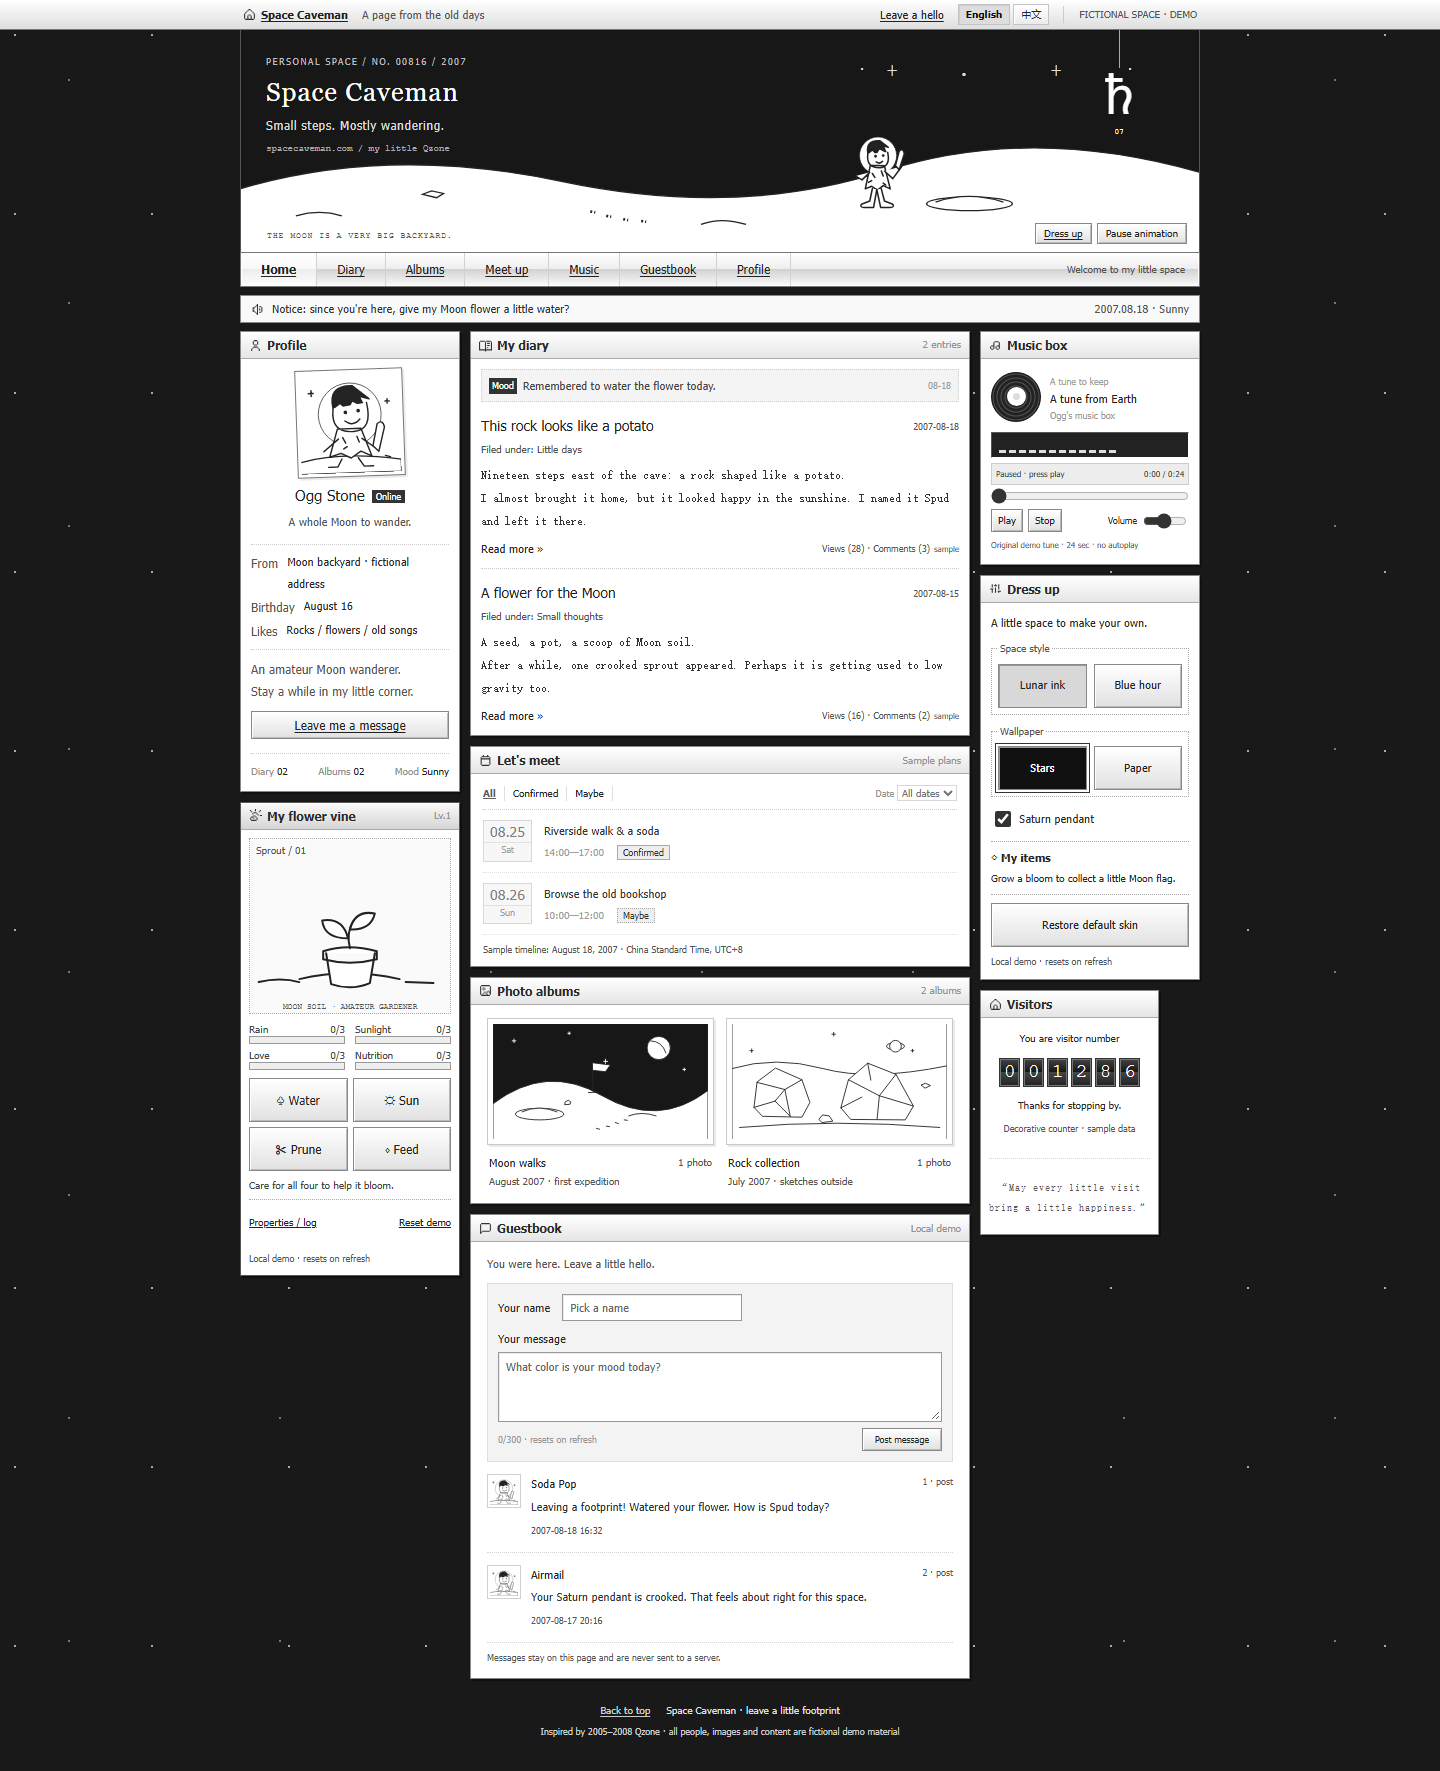
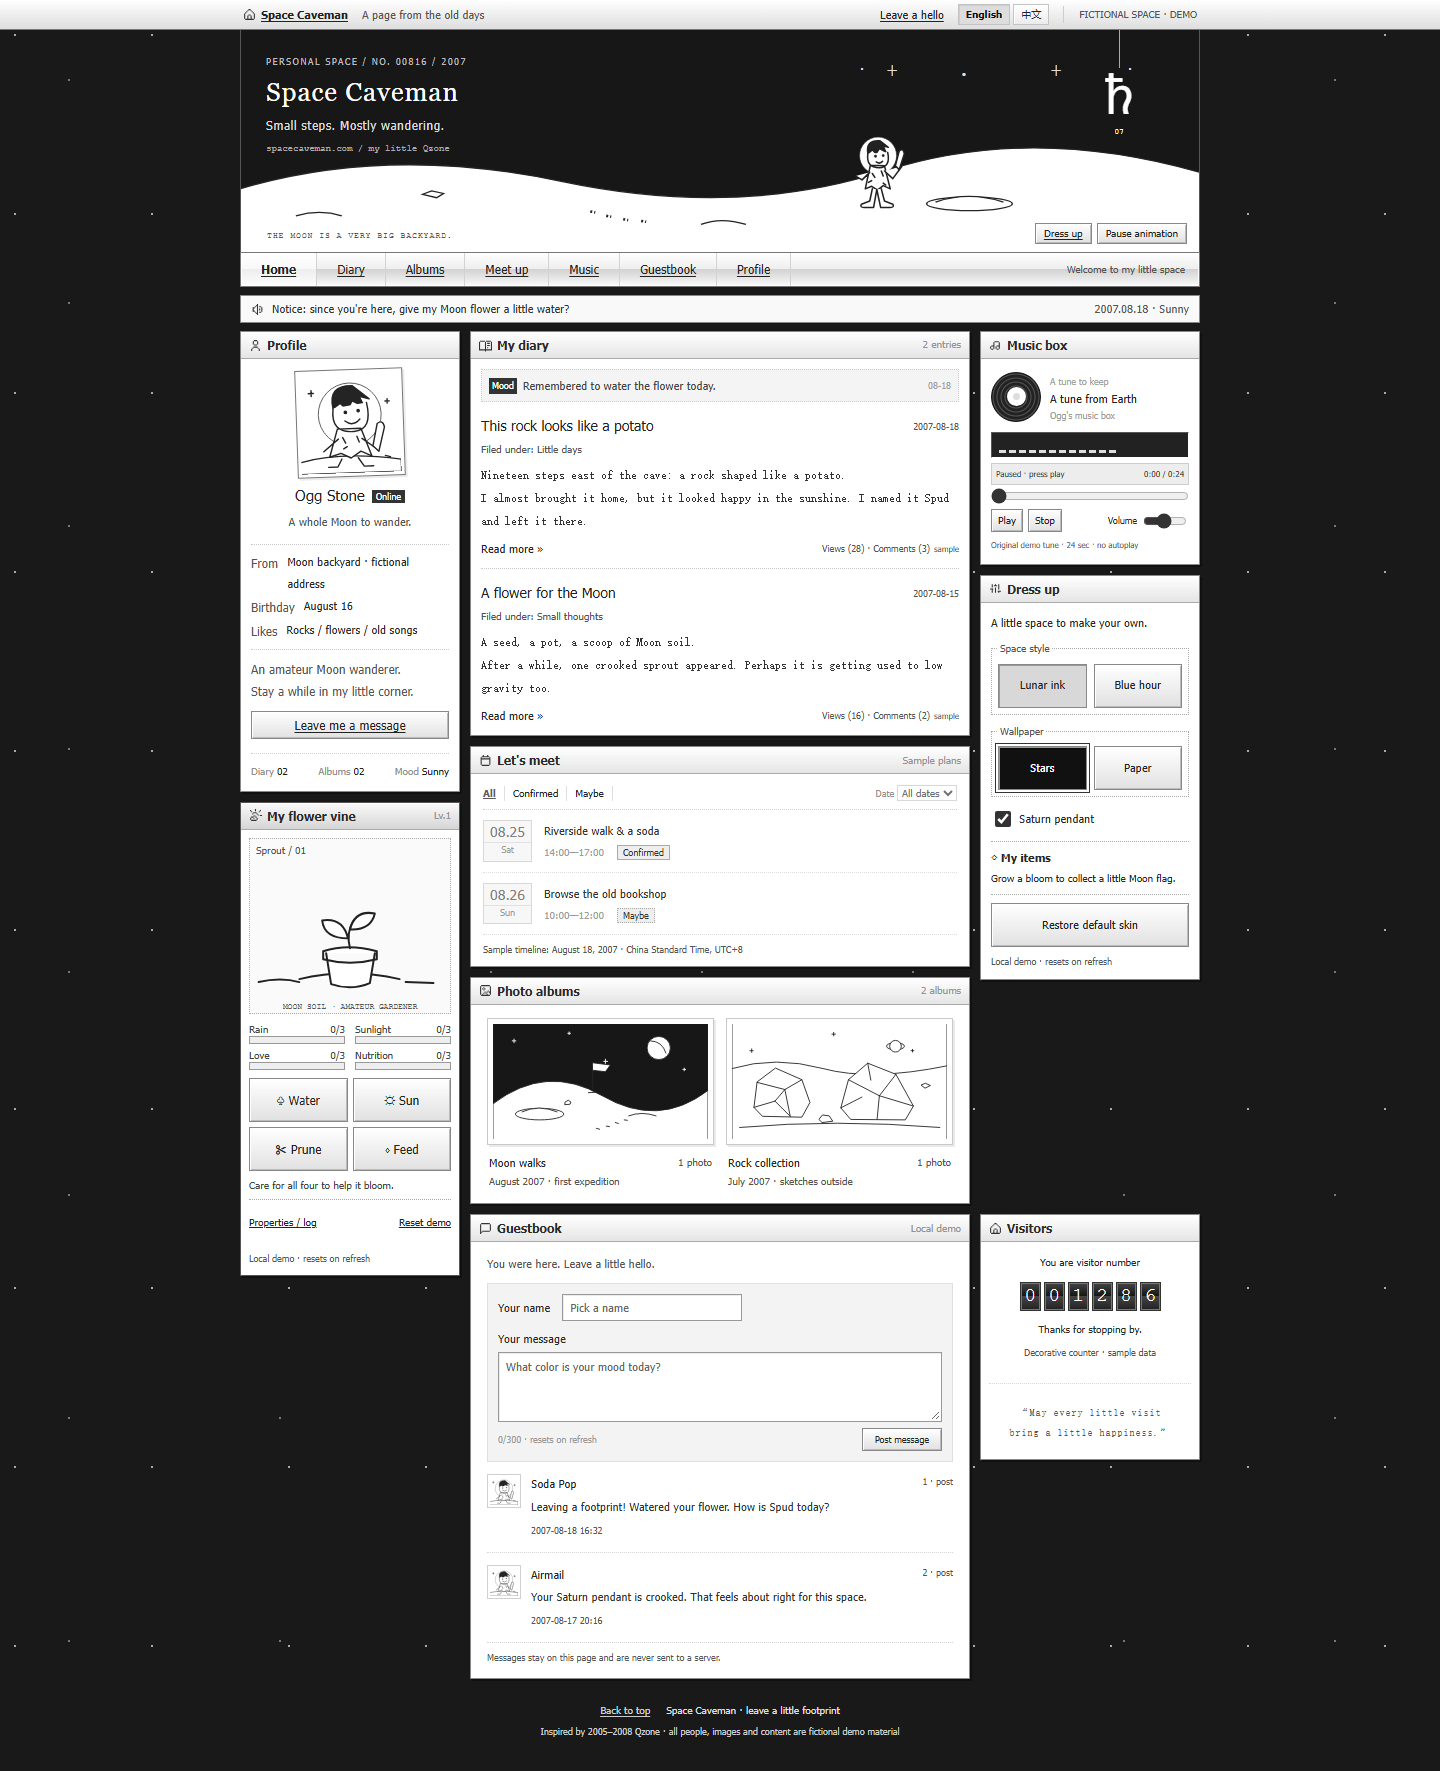
Align mobile reading and keyboard order with module layout

Changed region(s): [[0.6562, 0.559, 0.8438, 0.8385]]

diff --git a/demo/src/main.tsx b/demo/src/main.tsx
@@ -98,7 +98,6 @@ function App() {
             <Diary />
             <MeetupAvailability />
             <PhotoAlbums />
-            <Guestbook />
           </div>
           <div className="module-column right-column">
             <MusicPlayer />
@@ -117,28 +116,29 @@ function App() {
                 setFlag(false);
               }}
             />
-            <ModuleFrame
-              id="visitors"
-              title={t("小站足迹")}
-              english="FOOTPRINTS"
-              icon="home"
-              className="visitors"
-            >
-              <p>{t("你是这里的第")}</p>
-              <div className="counter" aria-label={t("样本访问次数 1286")}>
-                {"001286".split("").map((number, index) => (
-                  <span key={index}>{number}</span>
-                ))}
-              </div>
-              <p>{t("位过客。谢谢你的停留。")}</p>
-              <p className="fine-print">{t("装饰计数器 · 样本数据")}</p>
-              <p className="visitor-quote">
-                {t("“愿每次路过，")}
-                <br />
-                {t("都能遇见一点小小的快乐。”")}
-              </p>
-            </ModuleFrame>
           </div>
+          <Guestbook />
+          <ModuleFrame
+            id="visitors"
+            title={t("小站足迹")}
+            english="FOOTPRINTS"
+            icon="home"
+            className="visitors"
+          >
+            <p>{t("你是这里的第")}</p>
+            <div className="counter" aria-label={t("样本访问次数 1286")}>
+              {"001286".split("").map((number, index) => (
+                <span key={index}>{number}</span>
+              ))}
+            </div>
+            <p>{t("位过客。谢谢你的停留。")}</p>
+            <p className="fine-print">{t("装饰计数器 · 样本数据")}</p>
+            <p className="visitor-quote">
+              {t("“愿每次路过，")}
+              <br />
+              {t("都能遇见一点小小的快乐。”")}
+            </p>
+          </ModuleFrame>
         </main>
         <footer>
           <a href="#home">{t("回到顶部")}</a>

diff --git a/demo/e2e/reading-order.spec.ts b/demo/e2e/reading-order.spec.ts
@@ -1,0 +1,53 @@
+import { test, expect } from "@playwright/test";
+
+test("DOM, phone visual order, and real Tab navigation agree in both languages", async ({
+  page,
+}) => {
+  await page.goto("/");
+  const expectedOrder = [
+    "profile",
+    "flower",
+    "diary",
+    "meetup",
+    "albums",
+    "music",
+    "dressup",
+    "guestbook",
+    "visitors",
+  ];
+  for (const width of [320, 390, 430, 720, 1440]) {
+    await page.setViewportSize({ width, height: 1000 });
+    for (const language of ["English", "中文"]) {
+      await page.getByRole("button", { name: language, exact: true }).click();
+      const modules = page.locator("main .module");
+      // Screen-reader source order must match the intended phone reading order.
+      expect(
+        await modules.evaluateAll((items) => items.map((item) => item.id)),
+      ).toEqual(expectedOrder);
+      expect(
+        await modules.evaluateAll((items) =>
+          items.every((item) => getComputedStyle(item).order === "0"),
+        ),
+      ).toBe(true);
+      if (width <= 720) {
+        const boxes = await modules.evaluateAll((items) =>
+          items.map((item) => {
+            const box = item.getBoundingClientRect();
+            return { top: box.top, bottom: box.bottom };
+          }),
+        );
+        for (let i = 1; i < boxes.length; i++)
+          expect(boxes[i].top).toBeGreaterThanOrEqual(boxes[i - 1].bottom);
+      }
+      await page.locator("#albums .album").last().focus();
+      await page.keyboard.press("Tab");
+      await expect(page.locator("#seek")).toBeFocused();
+      await page.locator("#dressup .restore-skin").focus();
+      await page.keyboard.press("Tab");
+      await expect(page.locator("#guestbook input")).toBeFocused();
+      await page.locator('#guestbook button[type="submit"]').focus();
+      await page.keyboard.press("Tab");
+      await expect(page.locator('footer a[href="#home"]')).toBeFocused();
+    }
+  }
+});

diff --git a/demo/src/styles/space.css b/demo/src/styles/space.css
@@ -222,6 +222,28 @@ html[lang="en"] .masthead h1 {
   flex-direction: column;
   gap: var(--space-gap);
 }
+/* DOM flow is the phone/keyboard reading order. Desktop grid places groups
+   without flex order, tabindex overrides, or moving live modules between trees. */
+.left-column {
+  grid-column: 1;
+  grid-row: 1 / span 2;
+}
+.center-column {
+  grid-column: 2;
+  grid-row: 1;
+}
+.right-column {
+  grid-column: 3;
+  grid-row: 1;
+}
+.guestbook {
+  grid-column: 2;
+  grid-row: 2;
+}
+.visitors {
+  grid-column: 3;
+  grid-row: 2;
+}
 .module {
   background: var(--skin-surface);
   box-shadow: 2px 2px 0 var(--skin-shadow);
@@ -838,33 +860,6 @@ footer p {
   }
   .module-column {
     display: contents;
-  }
-  .profile {
-    order: 1;
-  }
-  .flower {
-    order: 2;
-  }
-  .diary {
-    order: 3;
-  }
-  .meetup {
-    order: 4;
-  }
-  .albums {
-    order: 5;
-  }
-  .music {
-    order: 6;
-  }
-  .dressup {
-    order: 7;
-  }
-  .guestbook {
-    order: 8;
-  }
-  .visitors {
-    order: 9;
   }
   .module-heading {
     min-height: 34px;

diff --git a/docs/themes.md b/docs/themes.md
@@ -83,14 +83,22 @@ required.
 
 ## Verification
 
-Run `pnpm demo:build` and `pnpm demo:test`. The current suite has 44 desktop and
+Run `pnpm demo:build` and `pnpm demo:test`. The current suite has 46 desktop and
 touch-phone Chromium checks, including theme switching while audio plays,
 flower/message/draft continuity, restore, bilingual labels, reduced motion and
 320/390/430px overflow. It compares profile/header screenshots before switching
 and after restoring within the same run, avoiding platform-dependent committed
 golden images. Physical iOS/Android devices remain untested.
 
+The source and phone visual order agree: Profile, Flower, Diary, Meetups, Albums,
+Music, Dress up, Guestbook, Visitors. Keep that order when extending a skin.
+Desktop uses grid placement rather than CSS `order`; Guestbook and the sample
+counter occupy the lower row. A regression test uses real Tab presses across
+Albums → Music and Dress up → Guestbook in both languages at 320/390/430/720/1440px.
+
 During extraction, 320px and 390px default lunar viewport screenshots were
 byte-identical to captures from before refactoring. Desktop comparison found zero
 changed pixels outside the Dress up column in the 1440×1000 viewport; that column
-gained a Space style selector. The same composition and artwork remain the default.
+gained a Space style selector. A subsequent accessibility review moved the desktop
+counter to the lower grid row so phone visual and source order remain identical;
+the artwork, palette and phone composition stay the same.

diff --git a/docs/lunar-qzone.md b/docs/lunar-qzone.md
@@ -50,12 +50,18 @@ two-by-two group with 44px targets; body copy is at least 14px and form controls
 use 16px text. The horizon is recomposed for phones instead of scaling down a
 desktop canvas. Normal browser zoom remains enabled.
 
-Verified locally: 44 Chromium browser tests (desktop and touch-phone projects),
+Source order matches that phone sequence, including Albums → Music → Dress up →
+Guestbook → Visitors. No CSS `order` or positive `tabindex` changes keyboard flow.
+Desktop grid places Guestbook and the decorative counter in the lower row, while
+retaining three compact columns and the original artwork.
+
+Verified locally: 46 Chromium browser tests (desktop and touch-phone projects),
 10 existing backend regressions, JavaScript checks, TypeScript/Vite build, website
 and isolated presence Worker dry-run packaging. Tests exercise growth thresholds,
 each care attribute, caps, burst-click protection, reset/refresh, reward placement,
 both languages, keyboard care, reduced motion, ambient pause, real audio states,
-guestbook validation, literal user text, albums, filters, zero network writes and
+guestbook validation, literal user text, albums, filters, source/visual order,
+real Tab transitions, zero network writes and
 overflow at 320/390/430/720/800/1440px. Physical iOS/Android devices were not tested.
 
 Run `pnpm demo:dev` for local preview, and `pnpm demo:test` for browser checks.
